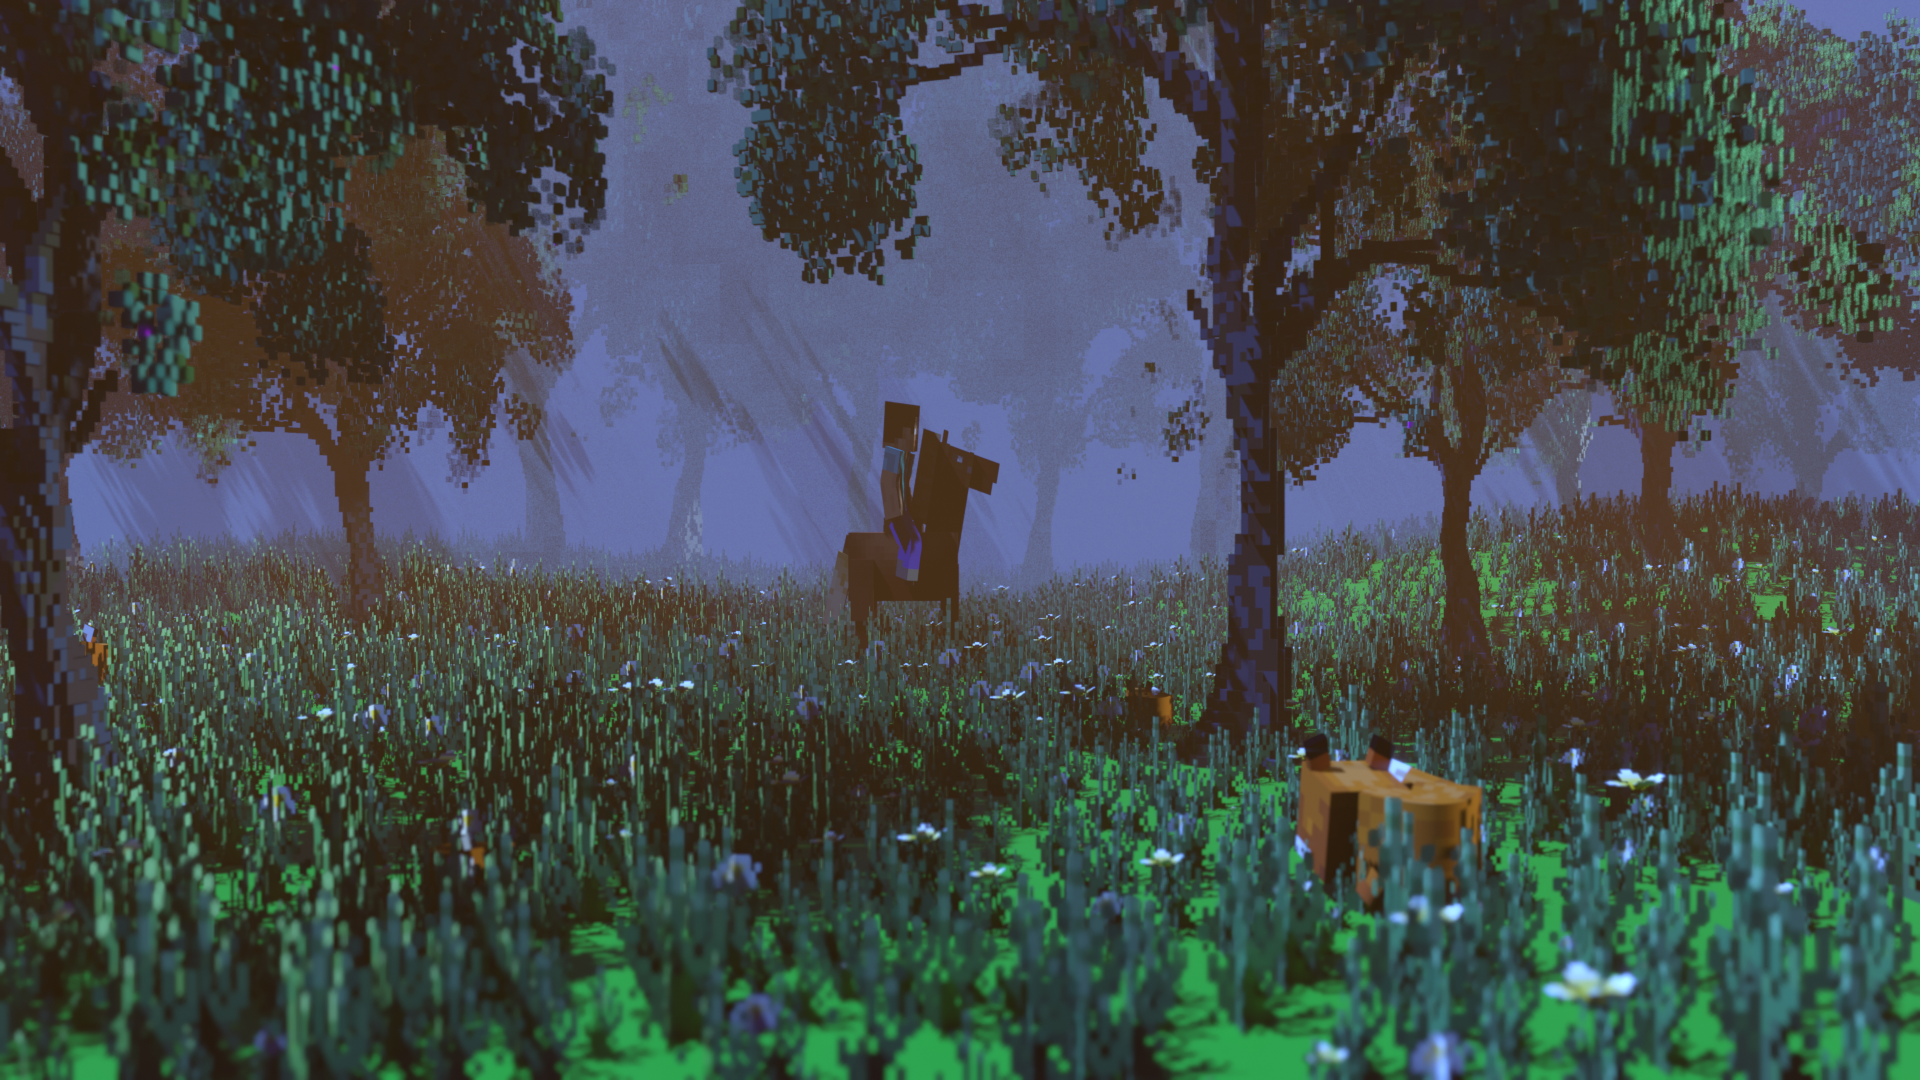
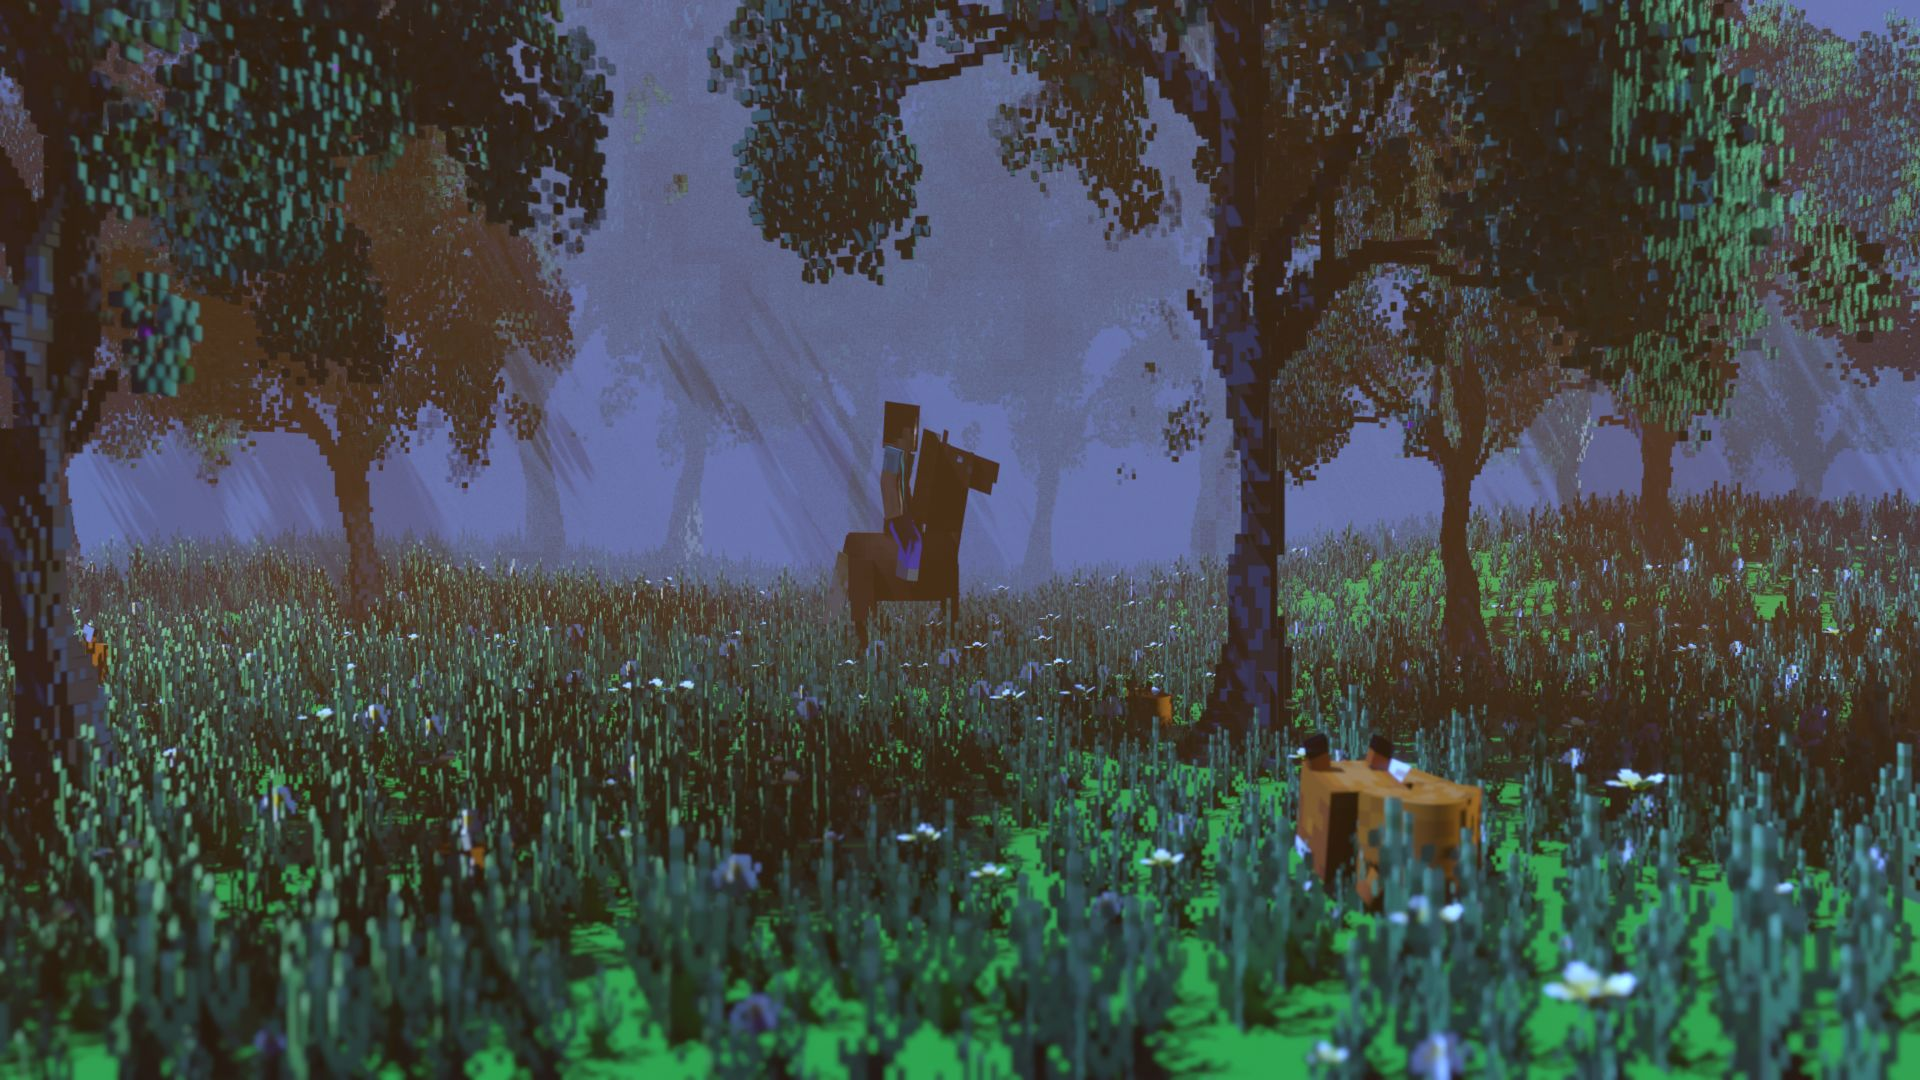
perf: compress all large images by 122MB using python script

diff --git a/scripts/compress.py b/scripts/compress.py
@@ -1,0 +1,72 @@
+import os
+import sys
+from PIL import Image
+
+def compress_images(source_dir, max_size=1920, quality=80):
+    """
+    Compresses and converts images in the source directory to optimized JPEG/WebP.
+    Replaces the original large PNG/JPG files with optimized versions.
+    """
+    supported_formats = ('.png', '.jpg', '.jpeg')
+    total_saved = 0
+    files_processed = 0
+
+    print(f"[*] Scanning directory: {source_dir}")
+    
+    for root, _, files in os.walk(source_dir):
+        for file in files:
+            ext = os.path.splitext(file)[1].lower()
+            if ext in supported_formats:
+                filepath = os.path.join(root, file)
+                original_size = os.path.getsize(filepath)
+                
+                # Skip small files (< 300KB)
+                if original_size < 300 * 1024:
+                    continue
+
+                try:
+                    with Image.open(filepath) as img:
+                        # Convert RGBA to RGB for JPEG compatibility (common with PNGs)
+                        if img.mode in ('RGBA', 'P'):
+                            img = img.convert('RGB')
+                        
+                        # Resize if too large
+                        width, height = img.size
+                        if width > max_size or height > max_size:
+                            ratio = min(max_size/width, max_size/height)
+                            new_size = (int(width*ratio), int(height*ratio))
+                            img = img.resize(new_size, Image.Resampling.LANCZOS)
+                        
+                        # Save heavily optimized version replacing the original file
+                        temp_path = filepath + '.tmp.jpg'
+                        img.save(temp_path, 'JPEG', quality=quality, optimize=True)
+                    
+                    # Compute savings
+                    new_size = os.path.getsize(temp_path)
+                    
+                    if new_size < original_size:
+                        os.remove(filepath)
+                        # We save it with the same extension name so Jekyll links don't break,
+                        # even if it's formatted as a highly compressed JPEG internally.
+                        os.rename(temp_path, filepath)
+                        saved = original_size - new_size
+                        total_saved += saved
+                        files_processed += 1
+                        print(f"[✓] Compressed: {file} | Saved: {saved / (1024*1024):.2f} MB")
+                    else:
+                        os.remove(temp_path)
+                        print(f"[-] Skipped (no space saved): {file}")
+                        
+                except Exception as e:
+                    print(f"[x] Error processing {file}: {e}")
+
+    print("-" * 40)
+    print(f"Finished! Processed {files_processed} files.")
+    print(f"Total space saved: {total_saved / (1024*1024):.2f} MB")
+
+if __name__ == "__main__":
+    assets_dir = os.path.abspath(os.path.join(os.path.dirname(__file__), '..', 'assets', 'images'))
+    if os.path.exists(assets_dir):
+        compress_images(assets_dir)
+    else:
+        print(f"Error: Directory not found -> {assets_dir}")
